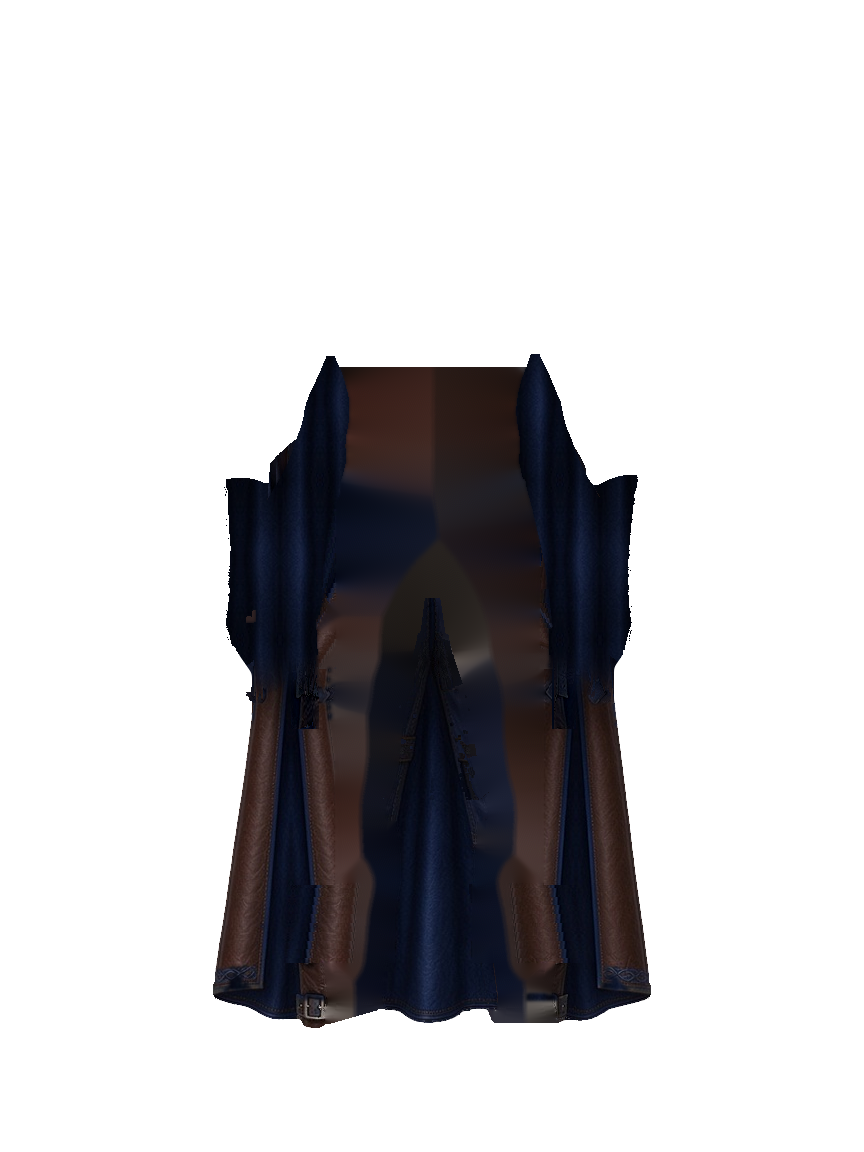
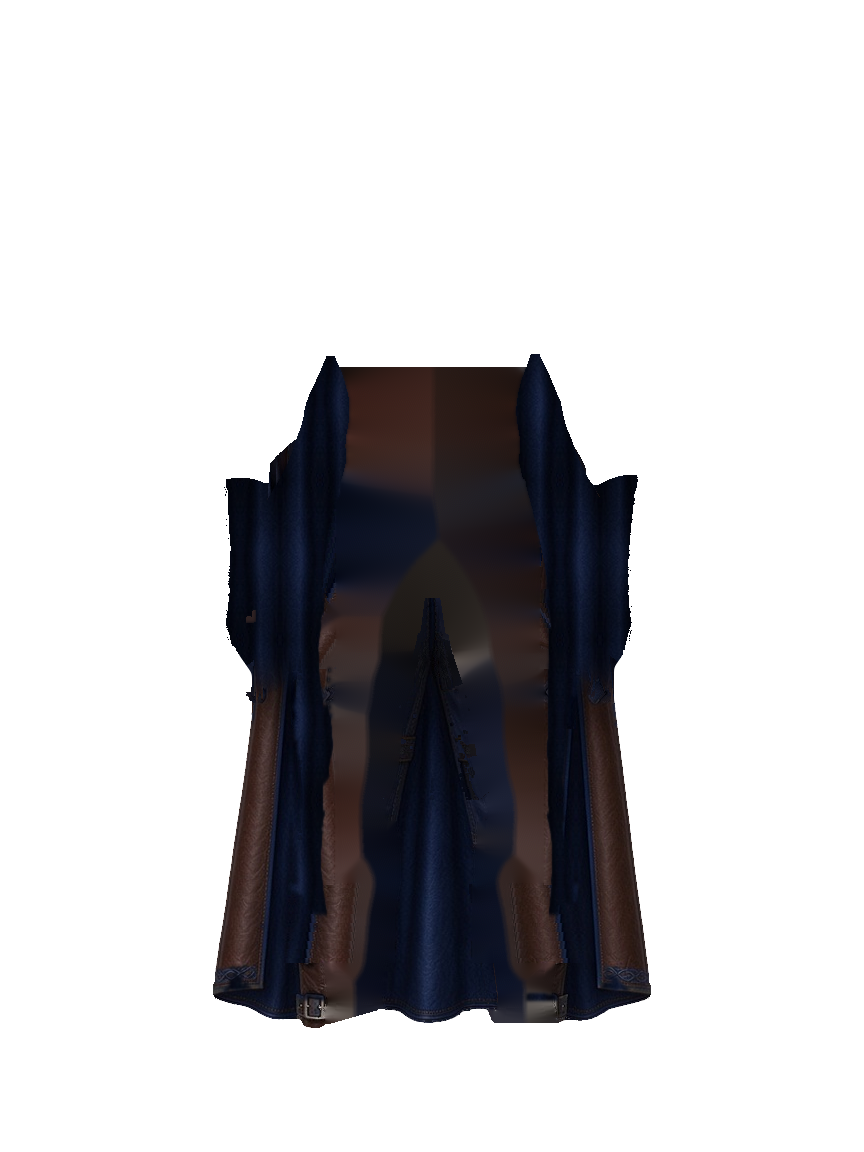
dolltest v5: male cloaks repainted with lining beside the legs (narrow common/masterwork pants showed the purple/blue/green paintings' pants-edge leftovers); female blue/purple shin under short common boots cleaned (strap stubs, tan blotches); LAYER_V 20261118-leg-sides

Changed region(s): [[0.3438, 0.5938, 0.4062, 0.8125], [0.625, 0.625, 0.6562, 0.8125]]

diff --git a/dolltest/v5/layers.html b/dolltest/v5/layers.html
@@ -137,7 +137,7 @@
     let face = 1;      // 0 = original baked head, 1-10 = new head layers
     let hair = 1;      // 0 = none, 1-10
     // Bump this whenever layer PNGs change so iOS Safari does not keep stale tiles.
-    const LAYER_V = "20261118-glove-join";
+    const LAYER_V = "20261118-leg-sides";
     const ONBASE = ["common", "masterwork", "green", "blue", "purple"];  // tiers cut from Art's on-base paintings
     // Tiers with hidden pants/boots underlaps (drawn only when both are on) so mixing
     // with another tier's boots or pants does not leave a strip of bare leg.
